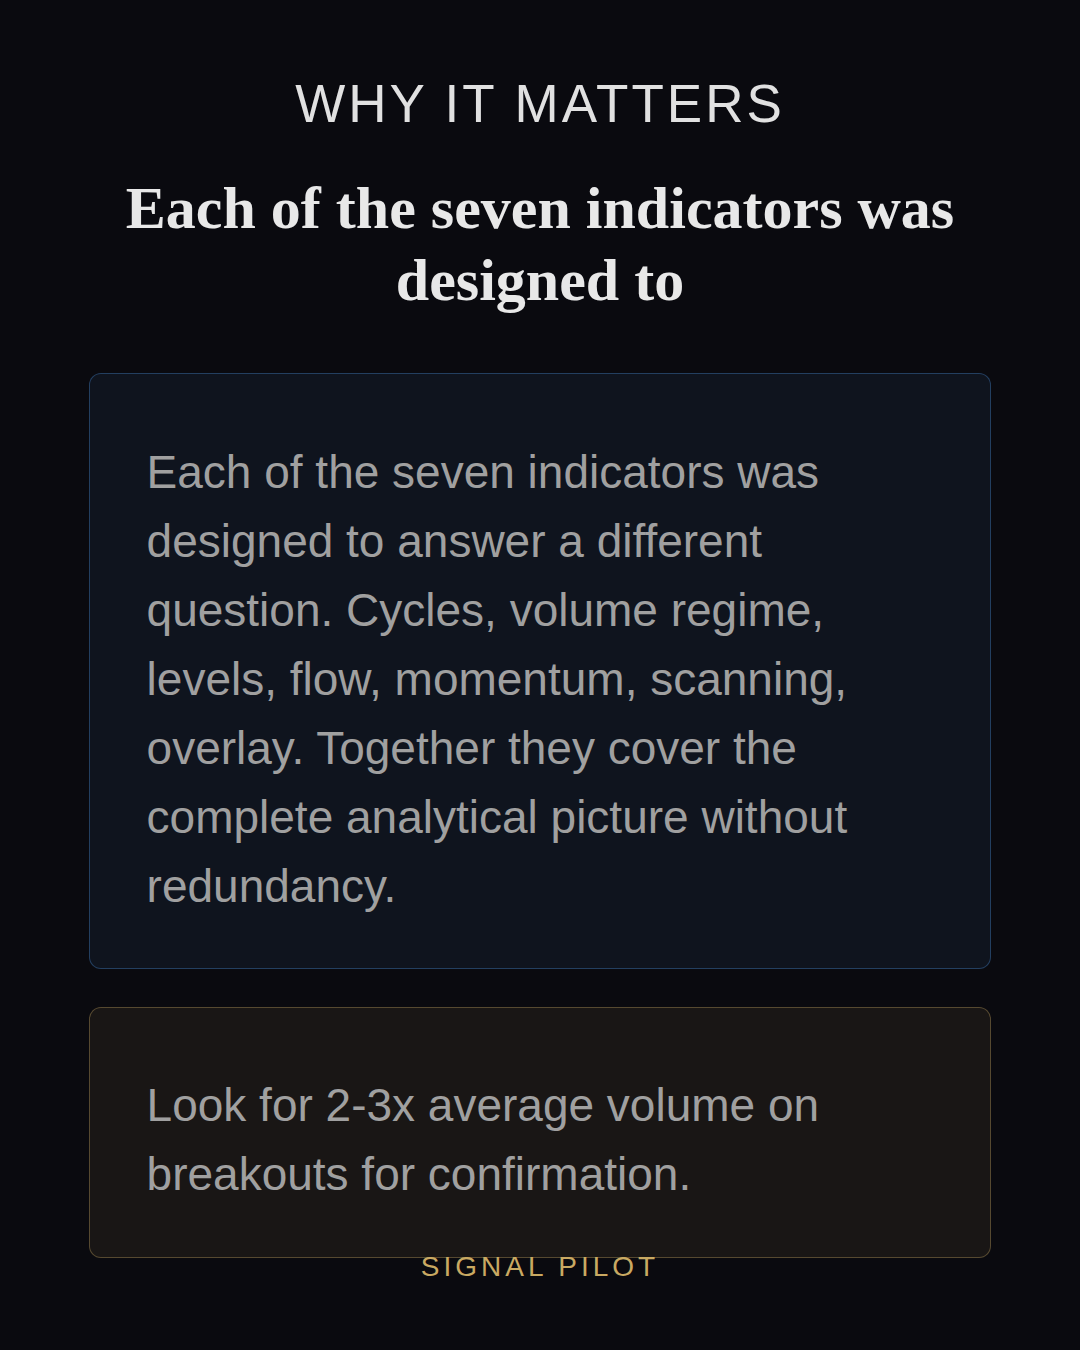
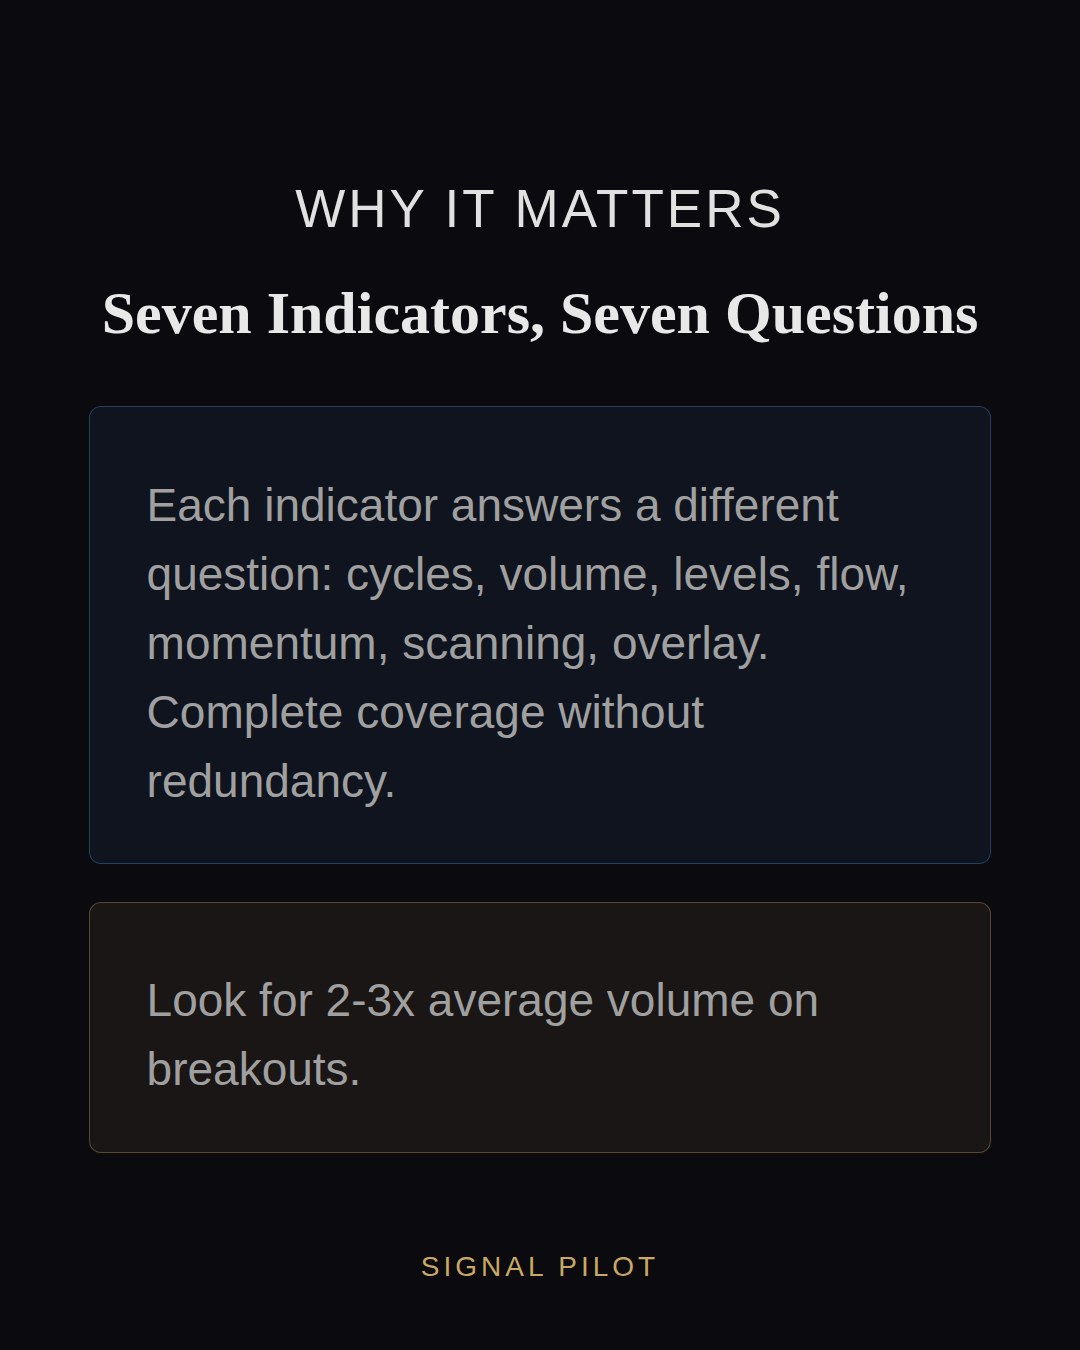
Fix post-638 slide-3 content overlapping SIGNAL PILOT branding
Shortened slide title and trimmed body text in both concept cards
to prevent the bottom card from pushing into the branding area.

https://claude.ai/code/session_01T5rMz6MU922jzr7v8dwCKB

diff --git a/INSTAGRAM_CONTENT_HUB/social/post-638/carousel.html b/INSTAGRAM_CONTENT_HUB/social/post-638/carousel.html
@@ -226,8 +226,8 @@
       <div class="slide-content">
         <span class="slide-number">03 / 06</span>
         <div class="slide-subtitle">Why It Matters</div>
-        <h2 class="slide-title">Each of the seven indicators was designed to</h2>
-        <div class="concept-card blue"><div class="card-label"></div><div class="card-desc">Each of the seven indicators was designed to answer a different question. Cycles, volume regime, levels, flow, momentum, scanning, overlay. Together they cover the complete analytical picture without redundancy.</div></div><div class="concept-card gold"><div class="card-label"></div><div class="card-desc">Look for 2-3x average volume on breakouts for confirmation.</div></div>
+        <h2 class="slide-title">Seven Indicators, Seven Questions</h2>
+        <div class="concept-card blue"><div class="card-label"></div><div class="card-desc">Each indicator answers a different question: cycles, volume, levels, flow, momentum, scanning, overlay. Complete coverage without redundancy.</div></div><div class="concept-card gold"><div class="card-label"></div><div class="card-desc">Look for 2-3x average volume on breakouts.</div></div>
         <span class="brand-mark">SIGNALPILOT</span>
       </div>
     </div>
